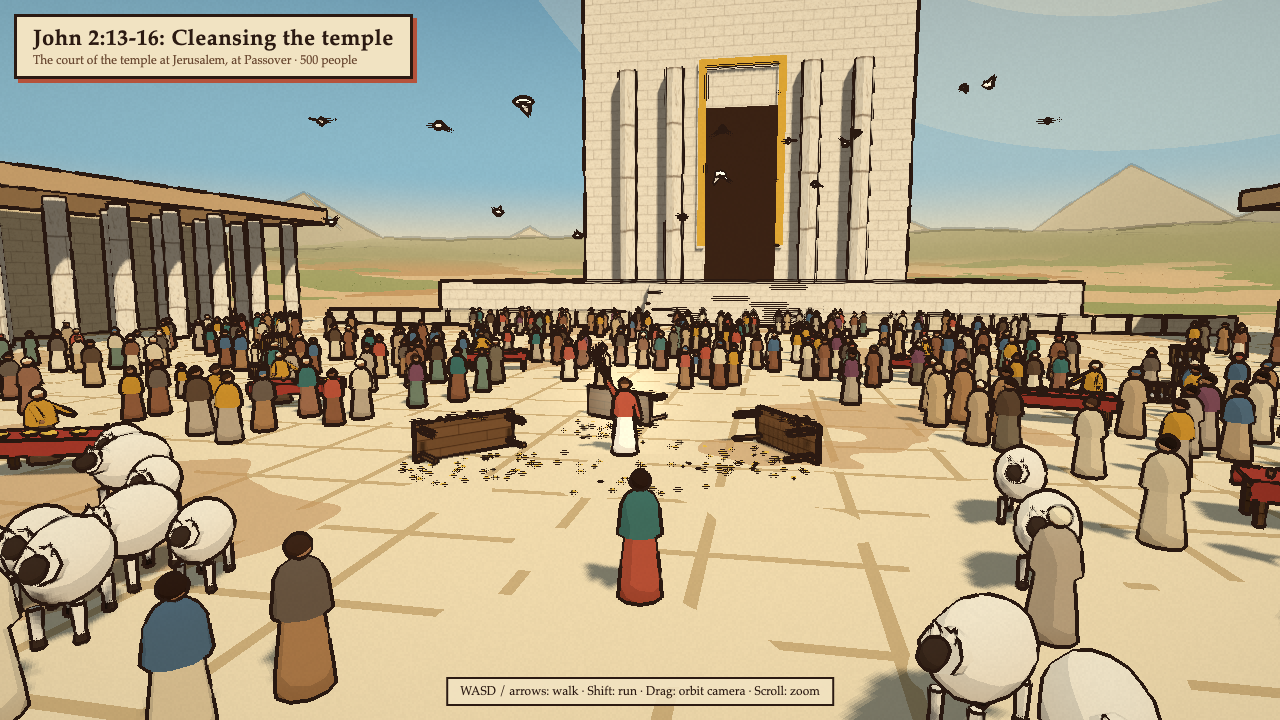
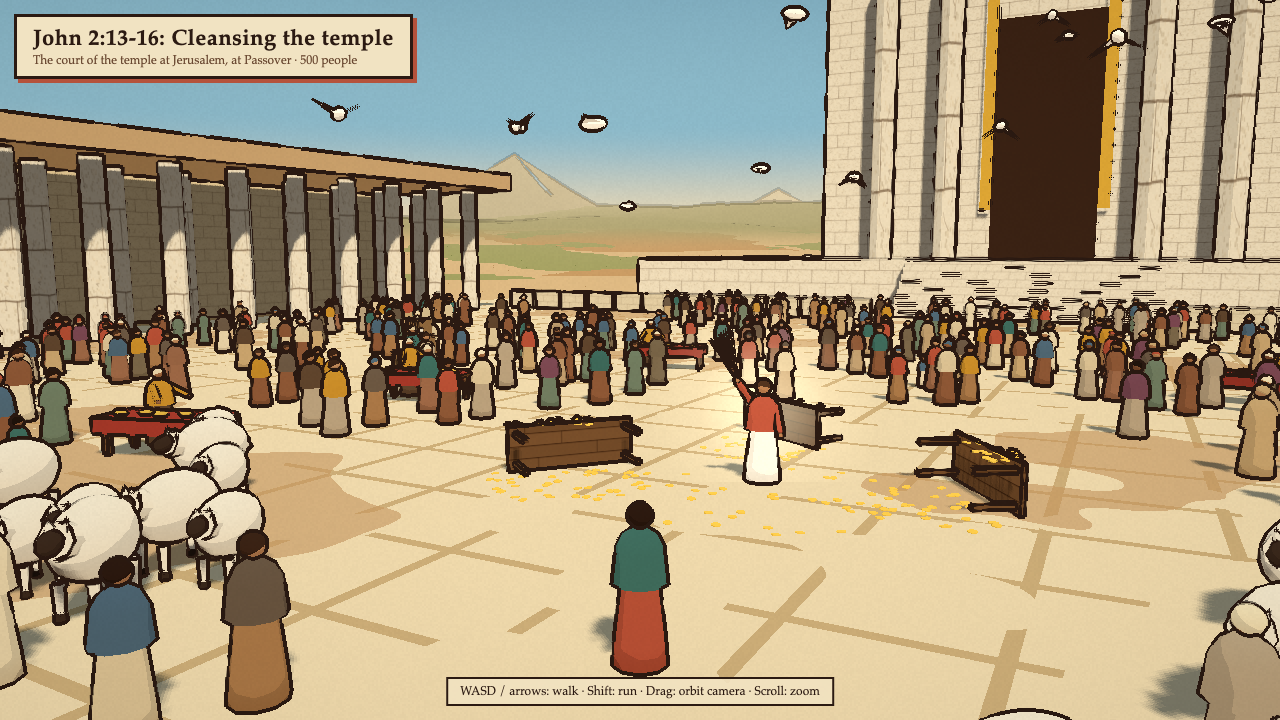
feat: polish toon scenes nt-07 to nt-12

diff --git a/styles/toon/scenes/nt-08.js b/styles/toon/scenes/nt-08.js
@@ -1,7 +1,7 @@
 // John 2:13-16. Jesus drives the moneychangers and the animals out of the temple court in Jerusalem.
 // x is east, z is south. The sanctuary stands to the north.
 import * as THREE from 'three';
-import { JESUS, JUDEANS, addMesh, animal, boxGeo, cyl, doves, figure, glow, makeRng, plankTexture, rod, table } from './lib/nt-07-kit.js';
+import { FX_LAYER, JESUS, JUDEANS, addMesh, animal, boxGeo, cyl, doves, figure, glow, makeRng, plankTexture, rod, table } from './lib/nt-07-kit.js';
 
 const JESUS_AT = [0, -6];
 const MARBLE = '#efe6d2';
@@ -52,7 +52,7 @@ function stoa(ctx, { cx, z0, z1, side }) {
 function coins(ctx, spots, seed = 9) {
   const rng = makeRng(seed);
   const n = spots.reduce((a, s) => a + s[2], 0);
-  const mesh = new THREE.InstancedMesh(new THREE.CylinderGeometry(0.06, 0.06, 0.015, 8), ctx.kit.toon('#e0b84a', { emissive: '#2a1e05' }), n);
+  const mesh = new THREE.InstancedMesh(new THREE.CylinderGeometry(0.08, 0.08, 0.02, 8), ctx.kit.toon('#f0c850', { emissive: '#5a400a' }), n);
   const m = new THREE.Matrix4(), q = new THREE.Quaternion(), e = new THREE.Euler();
   let i = 0;
   for (const [cx, cz, count, r] of spots) for (let k = 0; k < count; k++) {
@@ -61,6 +61,8 @@ function coins(ctx, spots, seed = 9) {
     m.compose(new THREE.Vector3(x, ctx.groundHeight(x, z) + 0.01, z), q.setFromEuler(e.set((rng() - 0.5) * 0.3, 0, (rng() - 0.5) * 0.3)), new THREE.Vector3(1, 1, 1));
     mesh.setMatrixAt(i++, m);
   }
+  // Outlines would swallow coins this small, so they skip the line pass.
+  mesh.layers.set(FX_LAYER);
   ctx.scene.add(mesh);
 }
 
@@ -131,13 +133,13 @@ export default {
     stoa(ctx, { cx: -38, z0: -44, z1: 24, side: -1 });
     stoa(ctx, { cx: 38, z0: -44, z1: 24, side: 1 });
 
-    const jesus = figure(ctx, { ...JESUS, arms: [0.25, 0.4] }, { pos: JESUS_AT, face: [3, 10], scale: 1.06, glow: 0.18, clear: 2.2 });
+    const jesus = figure(ctx, { ...JESUS, arms: [0.25, 0.4] }, { pos: JESUS_AT, face: [3, 10], scale: 1.12, glow: 0.28, clear: 2.2 });
     const right = jesus.children.filter((c) => c.isGroup).find((c) => c.position.x < 0);
     right.rotation.set(-2.5, 0, -0.35);
     const cords = [];
     for (let k = 0; k < 5; k++) cords.push(rod([0, -0.58, 0], [(k - 2) * 0.08, -1.3, 0.25 + k * 0.05], 0.015, 4));
     addMesh(right, cords, ctx.kit.toon('#6b4a33'), { cast: false });
-    glow(ctx, [JESUS_AT[0], ctx.groundHeight(...JESUS_AT) + 1.4, JESUS_AT[1]], 4, '#fff0c8', 0.3);
+    glow(ctx, [JESUS_AT[0], ctx.groundHeight(...JESUS_AT) + 1.4, JESUS_AT[1]], 4.5, '#fff0c8', 0.4);
 
     overturned(ctx, { pos: [-3.8, -5.2], rot: 0.9 });
     overturned(ctx, { pos: [3.9, -6.8], rot: -1.0 });
@@ -152,8 +154,8 @@ export default {
     });
 
     cages(ctx, [[-17, -15, 0.2], [-16, 4, -0.1], [17, -16, -0.2], [18, 3, 0.1]]);
-    doves(ctx, { center: [-2, 6, -8], count: 10, radius: 7, speed: 0.7 });
-    doves(ctx, { center: [8, 9, -16], count: 6, radius: 5, speed: -0.6 });
+    doves(ctx, { center: [-2, 6, -8], count: 10, radius: 7, speed: 0.7, size: 1.5 });
+    doves(ctx, { center: [8, 9, -16], count: 6, radius: 5, speed: -0.6, size: 1.5 });
 
     const rng = makeRng(31);
     for (let i = 0; i < 9; i++) {
@@ -188,8 +190,9 @@ export default {
   },
 
   player: {
-    start: [1.8, 1.5],
-    lookAt: [0, -8],
+    start: [1.6, 1.8],
+    lookAt: [-4, -8.5],
+    fov: 44,
     colors: { robe: '#b5523b', mantle: '#3e6e66', skin: '#a8724a', hair: '#2b1a12', sash: '#c8912e' },
   },
 };

diff --git a/styles/toon/scenes/lib/nt-07-kit.js b/styles/toon/scenes/lib/nt-07-kit.js
@@ -129,25 +129,34 @@ function waveTexture(base, light, dark) {
     g.fillStyle = base;
     g.fillRect(0, 0, 256, 256);
     g.lineCap = 'round';
-    for (let i = 0; i < 26; i++) {
-      const x = rng() * 256, y = rng() * 256, w = 20 + rng() * 40;
-      g.strokeStyle = rng() < 0.6 ? light : dark;
-      g.lineWidth = 2 + rng() * 2;
-      g.beginPath();
-      for (let k = 0; k <= 8; k++) {
-        const px = x + (k / 8) * w, py = y + Math.sin(k * 0.9) * 2.5;
-        for (const ox of [0, -256]) if (k === 0) g.moveTo(px + ox, py); else g.lineTo(px + ox, py);
+    for (let i = 0; i < 18; i++) {
+      const x = rng() * 256, y = rng() * 256, w = 14 + rng() * 22;
+      g.strokeStyle = rng() < 0.65 ? light : dark;
+      g.lineWidth = 2.5 + rng() * 1.5;
+      for (const ox of [0, -256]) for (const oy of [0, -256]) {
+        g.beginPath();
+        g.moveTo(x + ox, y + oy);
+        g.quadraticCurveTo(x + ox + w / 2, y + oy - 5, x + ox + w, y + oy);
+        g.stroke();
       }
-      g.stroke();
     }
   });
 }
 
-// Calm water: a flat plane with drifting hand-drawn ripple marks.
-export function calmWater(ctx, { y = 0, size = 3600, center = [0, 0], color = '#3f8f96', light = '#8fd0c8', dark = '#2f6f78', tile = 18 } = {}) {
+// Calm water: flat toon bands with drifting ripple marks. The marks fade into a plain far color with distance,
+// because a repeating texture smears into long streaks at grazing angles.
+export function calmWater(ctx, { y = 0, size = 3600, center = [0, 0], color = '#3f8f96', light = '#8fd0c8', dark = '#2f6f78', far = null, tile = 18, fade = [18, 70] } = {}) {
   const tex = waveTexture(color, light, dark);
   tex.repeat.set(size / tile, size / tile);
+  tex.anisotropy = 16;
   const mat = new THREE.MeshToonMaterial({ color: '#ffffff', map: tex, gradientMap: ctx.kit.gradient });
+  const uniforms = { uFar: { value: new THREE.Color(far ?? color) }, uFade: { value: new THREE.Vector2(...fade) } };
+  mat.onBeforeCompile = (shader) => {
+    Object.assign(shader.uniforms, uniforms);
+    shader.fragmentShader = shader.fragmentShader
+      .replace('#include <common>', '#include <common>\nuniform vec3 uFar;\nuniform vec2 uFade;')
+      .replace('#include <map_fragment>', '#include <map_fragment>\ndiffuseColor.rgb = mix(diffuseColor.rgb, uFar, smoothstep(uFade.x, uFade.y, length(vViewPosition)));');
+  };
   const mesh = new THREE.Mesh(new THREE.PlaneGeometry(size, size), mat);
   mesh.rotation.x = -Math.PI / 2;
   mesh.position.set(center[0], y, center[1]);

diff --git a/styles/toon/scenes/nt-11.js b/styles/toon/scenes/nt-11.js
@@ -57,7 +57,7 @@ export default {
 
   custom(ctx) {
     reshapeGround(ctx, SEGMENTS, (x, z, y) => y - (y + 2) * (1 - THREE.MathUtils.smoothstep(z, SHORE - 8, SHORE + 2)));
-    calmWater(ctx, { y: WATER_Y, size: 1400, color: '#4f9aa8', light: '#86c6c8', dark: '#468a98', tile: 12 });
+    calmWater(ctx, { y: WATER_Y, size: 1400, color: '#4f9aa8', light: '#8fd0cc', dark: '#3f8494', far: '#5ea6b0', tile: 22, fade: [40, 220] });
     ctx.addCollider({ x: 0, z: SHORE - 5 - 400, hx: 700, hz: 400, rot: 0, top: ctx.terrainHeight(0, SHORE) + 1.5 });
     const far = [];
     for (const [x, z, r, h] of [[-260, -330, 160, 40], [40, -380, 200, 55], [320, -300, 150, 35], [-420, -120, 120, 30], [440, -100, 130, 30]]) {
@@ -67,8 +67,8 @@ export default {
 
     boulders(ctx, [[SEAT[0], SEAT[1] + 0.6, 1.0, 0.55], [-4, 122, 1.4], [5, 123, 1.1], [16, 104, 1.2], [-22, 92, 1], [24, 86, 0.9]]);
     const seatTop = ctx.terrainHeight(SEAT[0], SEAT[1] + 0.6) + 0.5;
-    figure(ctx, { ...JESUS, arms: [0.45, 0.75] }, { pos: SEAT, y: seatTop - 0.2, face: [0, 60], seated: true, scale: 1.1, glow: 0.2, clear: 2.5 });
-    glow(ctx, [SEAT[0], seatTop + 1.0, SEAT[1]], 4.5, '#fff0c8', 0.35);
+    figure(ctx, { ...JESUS, arms: [0.45, 0.75] }, { pos: SEAT, y: seatTop - 0.2, face: [0, 60], seated: true, scale: 1.25, glow: 0.3, clear: 2.5 });
+    glow(ctx, [SEAT[0], seatTop + 1.1, SEAT[1]], 5.5, '#fff0c8', 0.45);
 
     const rng = makeRng(14);
     const flowers = [], grass = [];
@@ -80,7 +80,7 @@ export default {
     tufts(ctx, grass, { size: [0.15, 0.35], colors: ['#7f9a4a', '#6c8a42', '#9ab05e'], seed: 3 });
 
     leafyTrees(ctx, [[-36, 120], [38, 116], [-30, 140], [26, 142], [-48, 100], [52, 96], [6, 150]], { seed: 5, height: [5, 7], trunk: '#6b5a44', leaves: ['#7d9070', '#8a9a72', '#6f8460'] });
-    doves(ctx, { center: [6, ctx.terrainHeight(6, 100) + 10, 100], count: 7, radius: 9, speed: 0.35, color: '#efe9dc' });
+    doves(ctx, { center: [6, ctx.terrainHeight(6, 100) + 10, 100], count: 7, radius: 9, speed: 0.35, color: '#f6f2e8', size: 1.8 });
   },
 
   crowd: {
@@ -99,7 +99,8 @@ export default {
 
   player: {
     start: [-11, 113],
-    lookAt: [6, 100],
+    lookAt: [10, 107],
+    fov: 46,
     colors: { robe: '#b5523b', mantle: '#3e6e66', skin: '#a8724a', hair: '#2b1a12', sash: '#c8912e' },
   },
 };

diff --git a/styles/toon/scenes/nt-10.js b/styles/toon/scenes/nt-10.js
@@ -129,7 +129,7 @@ export default {
       const lake = 1 - THREE.MathUtils.smoothstep(r, 260, 420);
       return y - THREE.MathUtils.smoothstep(d, -2, 10) * 4 * lake;
     });
-    calmWater(ctx, { y: WATER_Y, size: 1400, center: [0, -500], color: '#4f9aa0', light: '#7fc2bc', dark: '#468a92', tile: 10 });
+    calmWater(ctx, { y: WATER_Y, size: 1400, center: [0, -500], color: '#4f9aa0', light: '#8fd0c8', dark: '#3f8189', far: '#64aaac', tile: 14 });
     foamLine(ctx, shore, { from: -200, to: 200, y: WATER_Y + 0.03, width: 0.7 });
     jetty(ctx);
     lakeWalls(ctx);
@@ -159,8 +159,8 @@ export default {
     addMesh(ctx.scene, lines.map(([a, b]) => rod(a, b, 0.035, 4)), ctx.kit.toon('#c8a97a'), { cast: false });
 
     const boatFloor = -0.15;
-    figure(ctx, { ...JESUS, arms: [0.35, 0.55] }, { pos: [4.2, -16.6], y: boatFloor, face: [3.2, -11], scale: 1.06, glow: 0.18, clear: 0 });
-    glow(ctx, [4.2, boatFloor + 1.4, -16.6], 4, '#fff0c8', 0.3);
+    figure(ctx, { ...JESUS, arms: [0.35, 0.55] }, { pos: [4.2, -16.6], y: boatFloor + 0.2, face: [3.2, -11], scale: 1.1, glow: 0.3, clear: 0 });
+    glow(ctx, [4.2, boatFloor + 1.4, -16.6], 4.5, '#fff0c8', 0.4);
     figure(ctx, { robe: '#a87b4f', mantle: '#5e4632', skin: '#9c6a45', hair: '#3a2418', sash: '#3e6e66', arms: [0.3, 1.4] }, { pos: [3.8, -15.0], y: boatFloor, face: [4.2, -16.6], seated: true, clear: 0 });
     const fisher = (mantle) => ({ robe: '#c8a97a', mantle, skin: '#8a5a3b', hair: '#2b1a12', sash: '#5e4632', arms: [0.3, 1.2] });
     figure(ctx, fisher('#b5523b'), { pos: [3.0, -12.2], y: boatFloor, face: [4.2, -16.6] });
@@ -190,8 +190,9 @@ export default {
   },
 
   player: {
-    start: [0, -13],
-    lookAt: [3.5, -21],
+    start: [0.5, -14.2],
+    lookAt: [3.1, -19.2],
+    fov: 42,
     colors: { robe: '#b5523b', mantle: '#3e6e66', skin: '#a8724a', hair: '#2b1a12', sash: '#c8912e' },
   },
 };

diff --git a/styles/toon/scenes/nt-07.js b/styles/toon/scenes/nt-07.js
@@ -105,8 +105,8 @@ export default {
     figure(ctx, bride, { pos: [-4.6, -17.3], face: [-4.6, 0], seated: true });
     figure(ctx, groom, { pos: [-3.4, -17.3], face: [-3.4, 0], seated: true });
 
-    figure(ctx, JESUS, { pos: JESUS_AT, face: [8, 5], scale: 1.05, glow: 0.15, arms: [0.3, 0.6] });
-    glow(ctx, [JESUS_AT[0], ctx.groundHeight(...JESUS_AT) + 1.3, JESUS_AT[1]], 4, '#fff0c8', 0.35);
+    figure(ctx, JESUS, { pos: JESUS_AT, face: [8, 5], scale: 1.1, glow: 0.28, arms: [0.3, 0.6] });
+    glow(ctx, [JESUS_AT[0], ctx.groundHeight(...JESUS_AT) + 1.3, JESUS_AT[1]], 4.5, '#fff0c8', 0.42);
     figure(ctx, { robe: '#d9c7a3', mantle: '#3f6a9a', skin: '#a87650', hair: '#3f6a9a' }, { pos: [13.6, -1.3], face: [9, 4] });
     const servant = { robe: '#c8a97a', mantle: '#8c5a3c', skin: '#8a5a3b', hair: '#e6d8b8', sash: '#5e4632' };
     const pour = [[5.6, -2.3, [5.5, -1]], [7.6, -2.4, [7.7, -1]], [9.6, -2.3, [9.9, -1]], [11.4, -2.6, [11, -1]]];
@@ -151,8 +151,9 @@ export default {
   },
 
   player: {
-    start: [7.5, 6.5],
-    lookAt: [9, -1],
+    start: [7.4, 3.8],
+    lookAt: [8.4, -1.5],
+    fov: 46,
     colors: { robe: '#b5523b', mantle: '#3e6e66', skin: '#a8724a', hair: '#2b1a12', sash: '#c8912e' },
   },
 };

diff --git a/styles/toon/scenes/nt-09.js b/styles/toon/scenes/nt-09.js
@@ -117,8 +117,8 @@ export default {
 
     const y = top;
     addMesh(ctx.scene, [boxGeo(1.1, 0.45, 0.7, [-1.6, y + 0.225, -1.4], { rotY: -1.0 })], ctx.kit.stoneMat('#bfa57c'));
-    figure(ctx, { ...JESUS, arms: [0.25, 0.75] }, { pos: [-1.6, -1.4], y: y + 0.4, face: [1.4, 1.2], seated: true, scale: 1.08, glow: 0.18, clear: 0 });
-    glow(ctx, [-1.6, y + 1.5, -1.4], 3.5, '#fff0c8', 0.3);
+    figure(ctx, { ...JESUS, arms: [0.25, 0.75] }, { pos: [-1.6, -1.4], y: y + 0.4, face: [1.4, 1.2], seated: true, scale: 1.15, glow: 0.3, clear: 0 });
+    glow(ctx, [-1.6, y + 1.4, -1.4], 4, '#fff0c8', 0.4);
     const woman = { robe: '#3f6a9a', mantle: '#b5523b', skin: '#a87650', hair: '#d9c7a3', sash: '#c8912e', arms: [0.3, 0.5] };
     figure(ctx, woman, { pos: [1.4, 0.9], face: [-1.6, -1.4] });
     addMesh(ctx.scene, [jarGeo(0.48, 2.2, ctx.terrainHeight(2.2, 1.6), 1.6)], ctx.kit.toon('#b5683b'));
@@ -141,8 +141,9 @@ export default {
   },
 
   player: {
-    start: [0.5, 6.5],
-    lookAt: [0, -2],
+    start: [-3.2, 3.6],
+    lookAt: [0.6, -3.2],
+    fov: 40,
     colors: { robe: '#b5523b', mantle: '#3e6e66', skin: '#a8724a', hair: '#2b1a12', sash: '#c8912e' },
   },
 };

diff --git a/styles/toon/scenes/nt-12.js b/styles/toon/scenes/nt-12.js
@@ -124,8 +124,8 @@ export default {
     });
     addMesh(ctx.scene, ropes, ctx.kit.toon('#d9c7a3'), { cast: false });
 
-    figure(ctx, { ...JESUS, arms: [0.35, 0.9] }, { pos: JESUS_AT, y: floor, face: [0, -5.8], scale: 1.06, glow: 0.2, clear: 1.2 });
-    glow(ctx, [JESUS_AT[0], floor + 1.4, JESUS_AT[1]], 3.5, '#fff0c8', 0.35);
+    figure(ctx, { ...JESUS, arms: [0.35, 0.9] }, { pos: JESUS_AT, y: floor, face: [0, -5.8], scale: 1.1, glow: 0.3, clear: 1.2 });
+    glow(ctx, [JESUS_AT[0], floor + 1.4, JESUS_AT[1]], 4, '#fff0c8', 0.42);
     glow(ctx, [0, MAT_Y + 0.4, -6.2], 3, '#fff2cc', 0.25);
     const scribe = { robe: '#3a3a4a', mantle: '#5a4a6a', skin: '#a87650', hair: '#efe3c2', sash: '#c8912e' };
     for (const [x, z] of [[4.6, -9.4], [5.2, -8.2], [4.4, -7.0], [5.3, -5.8]]) figure(ctx, scribe, { pos: [x, z], y: floor, face: [0, -7.5], seated: true, clear: 0.6 });
@@ -150,8 +150,9 @@ export default {
   },
 
   player: {
-    start: [0, 2.5],
-    lookAt: [-0.6, -7],
+    start: [0.4, -1.6],
+    lookAt: [-0.4, -8],
+    fov: 42,
     colors: { robe: '#b5523b', mantle: '#3e6e66', skin: '#a8724a', hair: '#2b1a12', sash: '#c8912e' },
   },
 };
